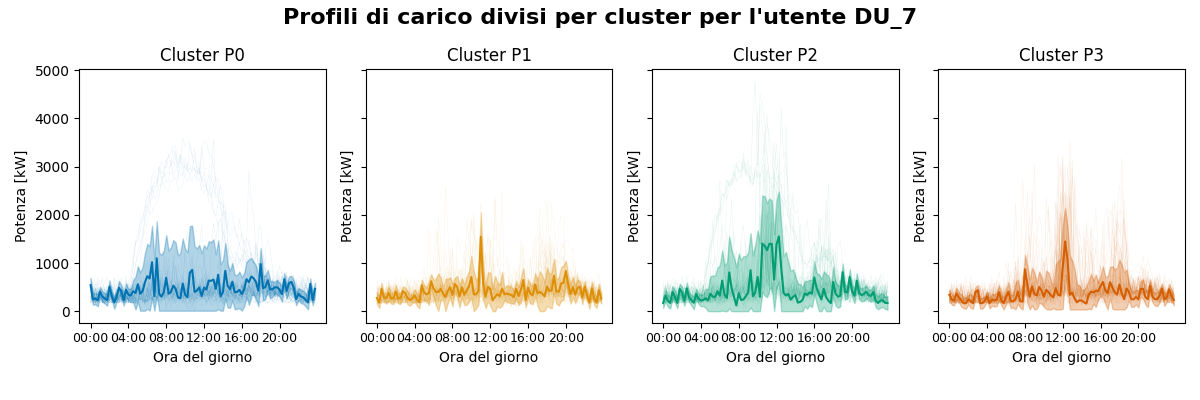
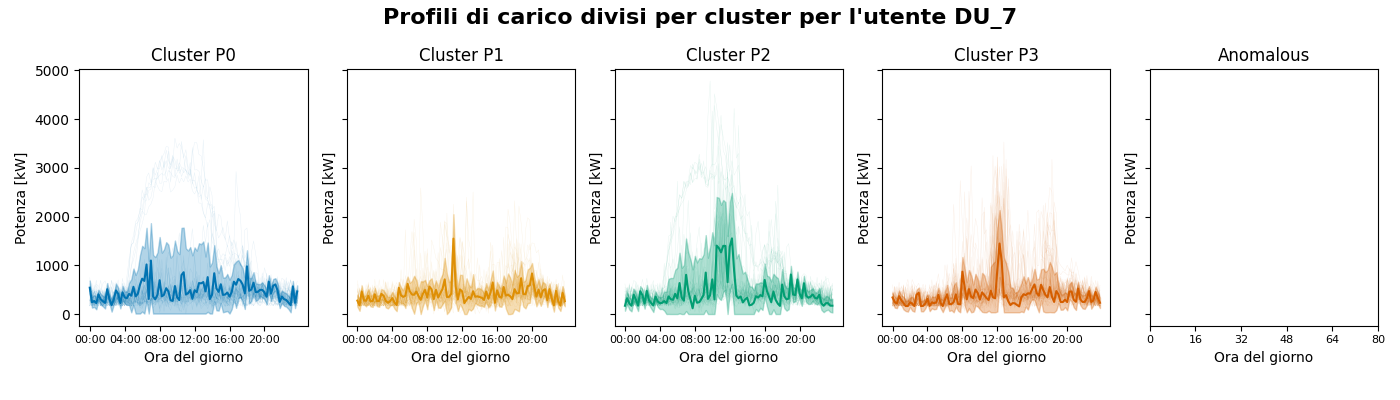
feat(benchmarking): introducing anomalous cluster

diff --git a/src/benchmarking/viz.py b/src/benchmarking/viz.py
@@ -52,6 +52,9 @@ def plot_load_profiles_user(user_id: str, aggregate: str):
     data_cluster["hour"] = data_cluster["timestamp"].dt.strftime("%H:%M")
 
     cluster_labels = cluster.loc[cluster["user_type"] == building.building_info["user_type"], "cluster"].unique()
+    # Drop the 'Anomalous' if present
+    if "Anomalous" in cluster_labels:
+        cluster_labels = cluster_labels[cluster_labels != "Anomalous"]
     cluster_labels.sort()
 
     data_cluster_pivot = data_cluster.pivot(index=["date", "cluster"], columns="hour", values="Load").reset_index().drop(columns=["date"])
@@ -62,7 +65,7 @@ def plot_load_profiles_user(user_id: str, aggregate: str):
     medioid, q1, q3 = find_medioid_and_quartiles(data_cluster_pivot, centroids_pivot)
     medioid = medioid.reset_index(names=["cluster"]).melt(id_vars="cluster", var_name="hour", value_name="Load")
 
-    fig, ax = plt.subplots(figsize=(12, 4), nrows=1, ncols=cluster_labels.size, sharey=True)
+    fig, ax = plt.subplots(figsize=(14, 4), nrows=1, ncols=(cluster_labels.size + 1), sharey=True)
 
     palette = sns.color_palette("colorblind", cluster_labels.size)
 
@@ -77,7 +80,7 @@ def plot_load_profiles_user(user_id: str, aggregate: str):
         ax[i].set_xlabel("Ora del giorno")
         ax[i].set_ylabel("Potenza [kW]")
         ax[i].set_xticks(range(0, 96, 16))
-        ax[i].tick_params(axis='x', labelsize=9)
+        ax[i].tick_params(axis='x', labelsize=8)
 
     # Calculate upper_bound and lower_bound as 1 std on each hour
     total_load_profiles = data_cluster[["hour", "Load", "cluster"]]
@@ -103,9 +106,21 @@ def plot_load_profiles_user(user_id: str, aggregate: str):
         ax[j].fill_between(cluster_lower_bound["hour"], cluster_lower_bound.set_index("hour")["Load"],
                            cluster_upper_bound.set_index("hour")["Load"], color=color, alpha=0.3)
 
+    # Adding the anomalous profiles
+    if "Anomalous" in data_cluster["cluster"].unique():
+        data_anomalous = data_cluster[data_cluster["cluster"] == "Anomalous"]
+        data_anomalous_grouped = data_anomalous.groupby("date")
+        for date, group in data_anomalous_grouped:
+            ax[j+1].plot(group["hour"], group["Load"], color='red', alpha=1, linewidth=0.5)
+    ax[j+1].set_title("Anomalous")
+    ax[j+1].set_xlabel("Ora del giorno")
+    ax[j+1].set_ylabel("Potenza [kW]")
+    ax[j+1].set_xticks(range(0, 96, 16))
+    ax[j+1].tick_params(axis='x', labelsize=8)
+
     plt.tight_layout(rect=(0, 0.05, 1, 0.92), h_pad=4)
     plt.suptitle(f"Profili di carico divisi per cluster per l'utente {building.building_info['name']}",
-                    fontsize=16, fontweight='bold')
+                 fontsize=16, fontweight='bold')
     plt.savefig(os.path.join(PROJECT_ROOT, "figures", "clustering", f"load_profiles_{user_id}.png"))
 
 
@@ -117,6 +132,7 @@ def plot_load_profiles_aggregate(aggregate: str):
 
     cluster = pd.read_csv(os.path.join(PROJECT_ROOT, "results", f"cluster_{aggregate}_assigned.csv"))
     cluster["date"] = pd.to_datetime(cluster["date"]).dt.date
+    cluster = cluster[cluster["cluster"] != "Anomalous"]
 
     cluster_consumer = cluster[cluster["user_type"] == "consumer"]
     cluster_labels_consumer = cluster_consumer["cluster"].unique()
@@ -244,7 +260,12 @@ def plot_cluster_percentage(aggregate: str):
     df_cluster_percentage.fillna(0, inplace=True)
     df_cluster_percentage = df_cluster_percentage.round(1)
 
-    palette = sns.color_palette("colorblind", n_colors=len(df_cluster_percentage.columns))
+    if 'Anomalous' in df_cluster_percentage.columns:
+        palette = sns.color_palette("colorblind", n_colors=len(df_cluster_percentage.columns) - 1)
+        palette.insert(0, (1, 0, 0))
+    else:
+        palette = sns.color_palette("colorblind", n_colors=len(df_cluster_percentage.columns))
+
     fig, ax = plt.subplots(figsize=(10, 8))
     bars = df_cluster_percentage.plot(kind="barh", stacked=True, ax=ax, color=palette)
     ax.set_xlabel("Percentuale [%]", fontsize=14)
@@ -274,7 +295,12 @@ def plot_cluster_percentage(aggregate: str):
     df_cluster_percentage.fillna(0, inplace=True)
     df_cluster_percentage = df_cluster_percentage.round(1)
 
-    palette = sns.color_palette("colorblind", n_colors=len(df_cluster_percentage.columns))
+    if 'Anomalous' in df_cluster_percentage.columns:
+        palette = sns.color_palette("colorblind", n_colors=len(df_cluster_percentage.columns) - 1)
+        # Append the red color to the palette at first position
+        palette.insert(0, (1, 0, 0))
+    else:
+        palette = sns.color_palette("colorblind", n_colors=len(df_cluster_percentage.columns))
     fig, ax = plt.subplots(figsize=(10, 8))
     bars = df_cluster_percentage.plot(kind="barh", stacked=True, ax=ax, color=palette)
     ax.set_xlabel("Percentuale [%]", fontsize=14)
@@ -298,6 +324,3 @@ def plot_cluster_percentage(aggregate: str):
 
 def plot_centroids(aggregate: str):
     pass
-
-
-plot_load_profiles_user("7436df46-294b-4c97-bd1b-8aaa3aed97c5", "anguillara")

diff --git a/src/benchmarking/assign.py b/src/benchmarking/assign.py
@@ -109,8 +109,9 @@ def assign_cluster(aggregate: str):
         else:
             medioids = medioids_prosumer
 
-        # Assign the cluster with the minimum distance
-        clusters = data_pivot.apply(lambda row: medioids.apply(lambda x: euclidean(row, x), axis=1).idxmin(), axis=1)
+        clusters = data_pivot.apply(
+            lambda row: assign_to_nearest_or_anomalous(row, medioids), axis=1
+        )
         clusters = clusters.reset_index()
         clusters.columns = ["date", "cluster"]
         clusters["building_name"] = building.building_info["name"]
@@ -122,3 +123,26 @@ def assign_cluster(aggregate: str):
     df = pd.concat(building_data_list)
 
     df.to_csv(f"../../results/cluster_{aggregate}_assigned.csv", index=False)
+
+
+def assign_to_nearest_or_anomalous(load_profile, medioids, threshold=4):
+    """
+    Assegna l'etichetta di cluster al profilo di carico più vicino, a meno che la distanza non superi la soglia.
+    Se la distanza è maggiore della soglia, il profilo viene assegnato ad 'Anomalous'.
+    :param load_profile: profilo di carico da assegnare
+    :param medioids: medioidi dei cluster
+    :param threshold: soglia di distanza
+    :return: etichetta del cluster  o 'Anomalous'
+    """
+    # Calculate the Euclidean distance between the load profile and all medoids
+    distances = medioids.apply(lambda x: euclidean(load_profile, x), axis=1)
+
+    # Get the minimum distance and the corresponding cluster
+    min_distance = distances.min()
+    closest_cluster = distances.idxmin()
+
+    # If the minimum distance exceeds the threshold, assign to "Anomalous"
+    if min_distance > threshold:
+        return "Anomalous"
+
+    return closest_cluster
